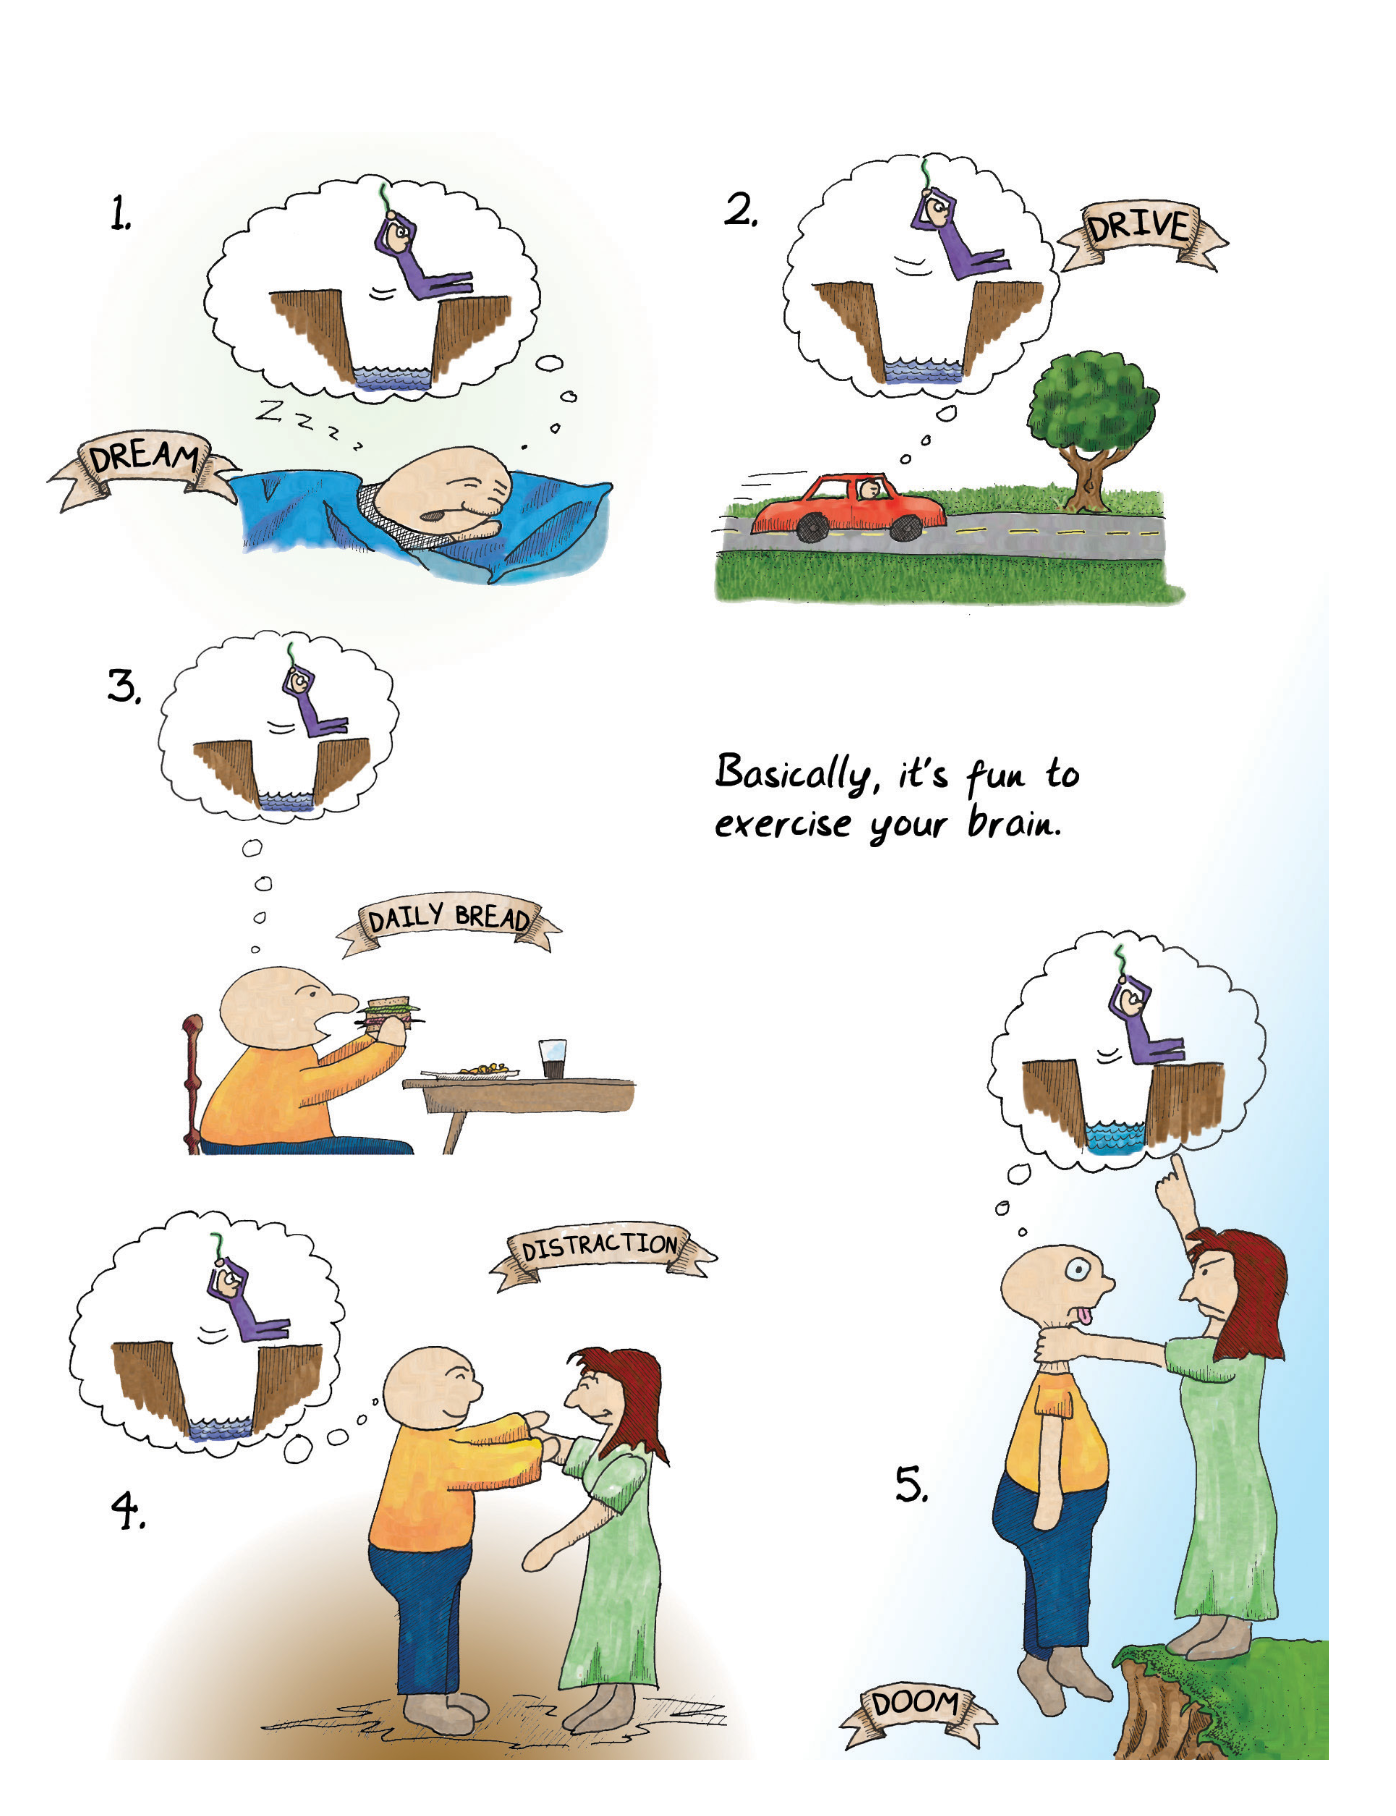
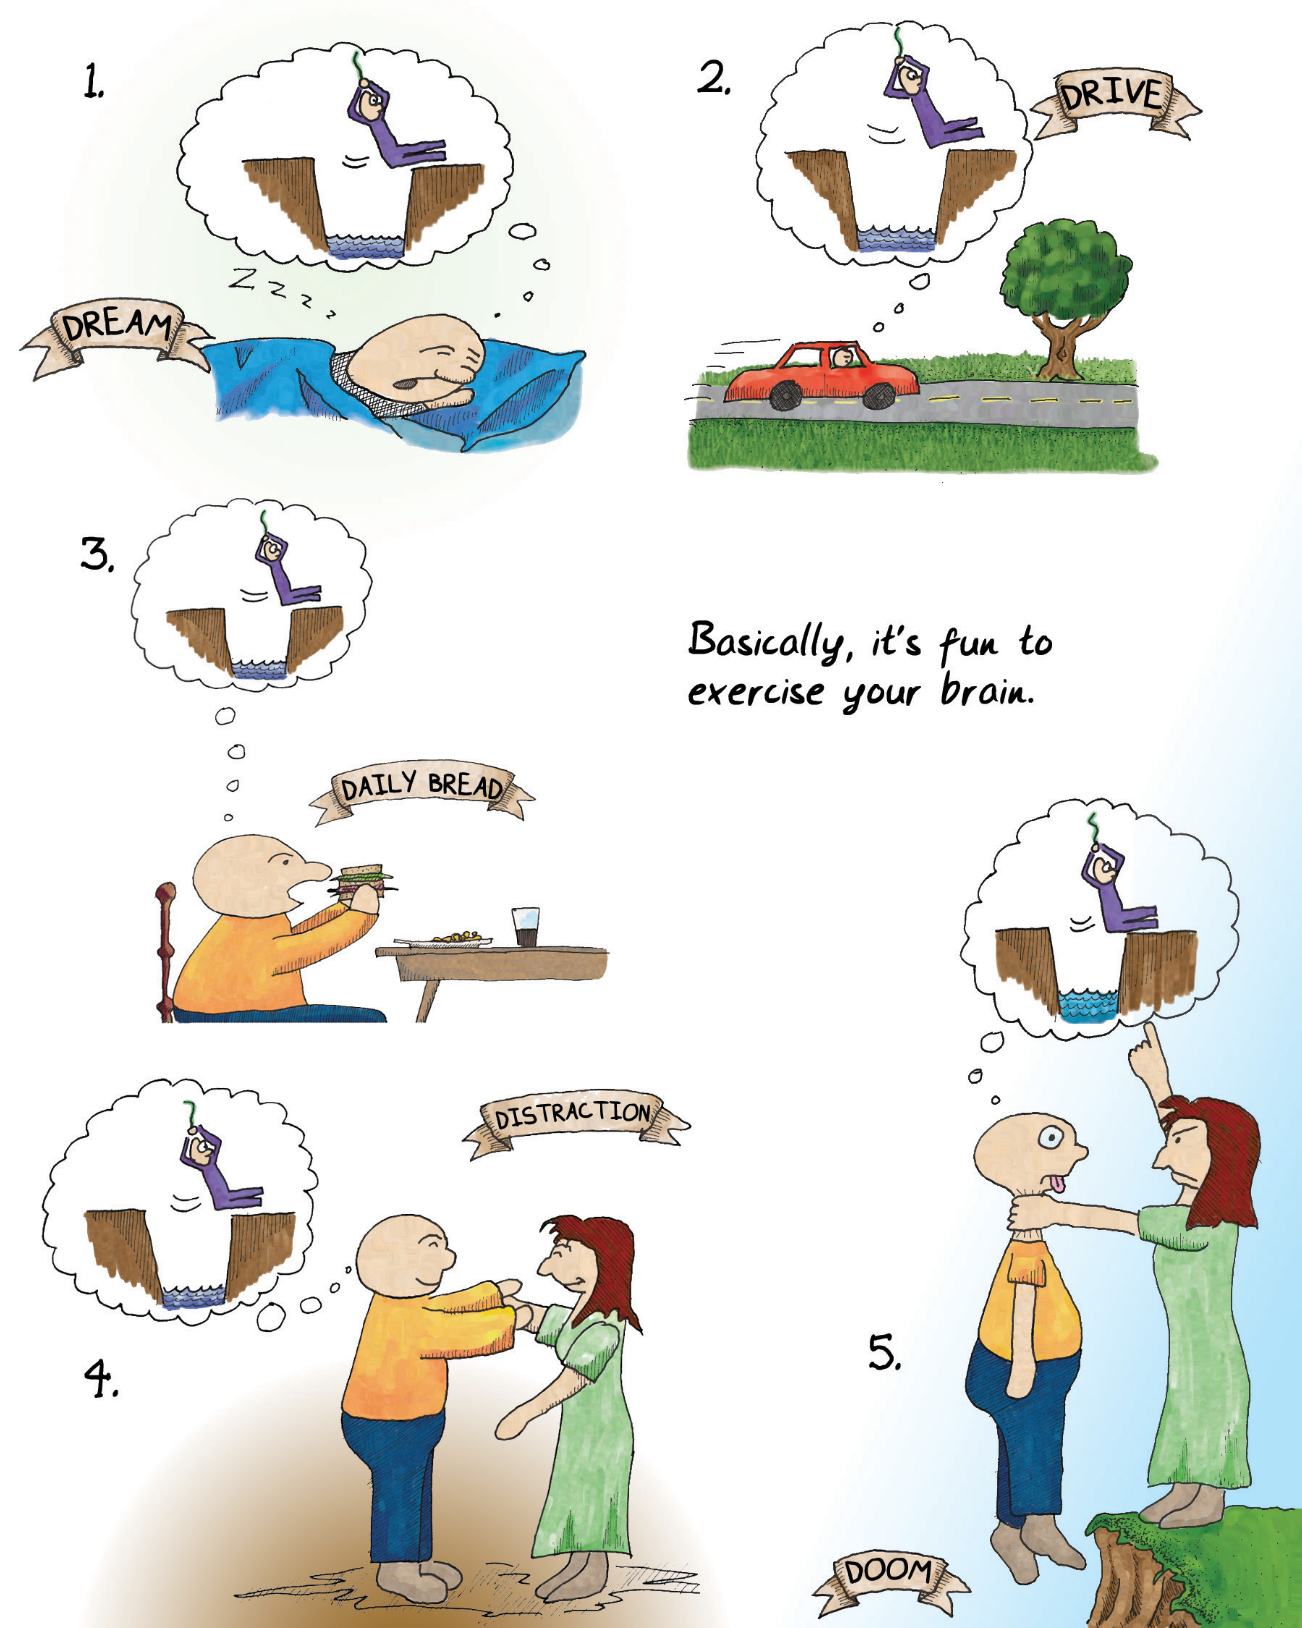
Update.
Update.

diff --git a/chapter-3.md b/chapter-3.md
@@ -17,7 +17,15 @@ The pattern depicted may or may not exist in reality. Nobody is claiming that ti
 
 The world is full of systems that we can choose to approach as games, and by approaching them that way, we make them into games. Games are puzzles to solve, just like everything else we encounter in life. They are on the same order as learning to drive a car, play the mandolin, or multiply seven times seven. We learn the underlying patterns, grok them fully, and file them away so that they can be rerun as needed. The only real difference between games and reality is that the stakes are lower with games.
 
-这个世界充满了各种系统，我们可以选择把它们当作游戏来处理，通过这样的处理方式，我们把它们变成了游戏。游戏是需要解决的谜题，就像我们在生活中遇到的其他事情一样。它们与学习驾驶汽车、弹曼陀林或计算 7 乘以 7 的顺序相同。我们学习其基本模式，完全领悟它们，并将它们归档，以便在需要时重新运行。游戏与现实的唯一真正区别在于，游戏的风险较低。
+这个世界充满了各种系统，我们可以选择把它们当作游戏来处理，通过这样的处理方式，我们把它们变成了游戏。游戏是待解决的谜题，就像我们在生活中遇到的其他事情一样。它们与学习驾驶汽车、弹曼陀林或计算 7 乘以 7 的顺序相同。我们学习其基本模式，完全领悟它们，并将它们归档，以便在需要时重新运行。游戏与现实的唯一真正区别在于，游戏的风险较低。
+
+<div align="center">
+<img src="images/3.1.png" alt="">
+</div>
+
+> Games are puzzles.
+> 
+> 游戏是谜题。
 
 Games are something special and unique. They are concentrated chunks ready for our brains to chew on. Since they are abstracted and iconic, they are readily absorbed. Since they are formal systems, they exclude distracting extra details. Usually, our brains have to do hard work to turn messy reality into something as clear as a game is.
 
@@ -31,14 +39,68 @@ The distinctions between toys and games, or between play and sport, start to see
 
 从这个角度看，玩具与游戏之间，或玩耍与体育之间的区别开始显得有些吹毛求疵和无关紧要。人们对此有很多争论，比如玩耍是非目标导向的，而游戏往往有明确的目标；玩具旨在促进无目的的玩耍，而非成为游戏的一部分；假装是一种玩耍形式，而非游戏。
 
-A game designer might find those distinctions useful because they provide helpful guideposts. But all these things are the same at their most fundamental level. Perhaps this is the reason why language hasn't done a very good job of making distinctions between "play,” "game,” and "sport.” Playing a goal-oriented game involves simply recognizing a particular sort of pattern; playing make-believe is recognizing another one. Both deservedly belong in the same category of "iconified representations of human experience that we can practice with and learn patterns from.”
+A game designer might find those distinctions useful because they provide helpful guideposts. But all these things are the same at their most fundamental level. Perhaps this is the reason why language hasn't done a very good job of making distinctions between "play," "game," and "sport." Playing a goal-oriented game involves simply recognizing a particular sort of pattern; playing make-believe is recognizing another one. Both deservedly belong in the same category of "iconified representations of human experience that we can practice with and learn patterns from."
 
 游戏设计师可能会觉得这些区别很有用，因为它们提供了有益的指导。但所有这些东西在最根本的层面上都是一样的。也许这就是为什么语言没有很好地区分“玩耍”、“游戏”和“运动”的原因。玩一种以目标为导向的游戏，只涉及识别一种特定的模式；而玩“假装”游戏则是识别另一种模式。两者当之无愧地属于同一类“人类经验的图标化表征，我们可以从中练习和学习模式”。
 
-Consider the key difference between something like a book and different kinds of games. A book can do the logical conscious part of the brain pretty well. And really good readers have an ability to slurp that info directly into the subconscious, intuitive mind. But what a book will never be able to do is accelerate the grokking process to the degree that games do, because you cannot practice a pattern and run permutations on it with a book, and have the book respond with feedback. *
+Consider the key difference between something like a book and different kinds of games. A book can do the logical conscious part of the brain pretty well. And really good readers have an ability to slurp that info directly into the subconscious, intuitive mind. But what a book will never be able to do is accelerate the grokking process to the degree that games do, because you cannot practice a pattern and [run permutations on it with a book](#user-content-fn-3)[^3], and have the book respond with feedback.
 
-考虑一下像书这样的东西与不同种类的游戏之间的主要区别。一本书可以很好地完成大脑的逻辑意识部分。而真正优秀的读者有能力将这些信息直接输入潜意识、直觉思维。但书永远无法做到的是，像游戏那样加速摸索过程，因为你无法用一本书来练习一个模式并对其进行排列组合，然后让书做出反馈。*
+考虑一下像书这样的东西与不同种类的游戏之间的主要区别。一本书可以很好地完成大脑的逻辑意识部分。而真正优秀的读者有能力将这些信息直接吸收到潜意识、直觉思维中。但书永远无法做到的是，像游戏那样加速理解过程，因为你无法[用一本书来实践某种模式和运行模式的各种变化组合](#user-content-fn-4)[^4]，然后让书做出反馈。
+
+<div align="center">
+<img src="images/3.2.png" alt="">
+</div>
+
+> cog.ni.tion
+> 
+> n. 1. The mental process of knowing.
+> 
+> 名词 1. 认识的心理过程。
+> 
+> [from Latin cognitio]
+> 
+> [源于拉丁语 cognitio，意思是认识，了解]
+> 
+> -- they are about cognition, and learning to analyze patterns.
+> 
+> -- 它们是关于认知和学习分析模式的。
+
+Linguists have noticed that language obeys fairly strict mathematical rules. For example, humans cannot understand a sentence that is too [deeply nested](#user-content-fn-5)[^5]. "The house the cheese the rat the cat the dog chased caught ate lay in was built by Jack" is a bad sentence because it violates this rule. The clauses are too deeply nested. We can puzzle it out with our slow logical conscious brain, but we work against our own natures when we do so.
+
+语言学家注意到，语言遵守相当严格的数学规则。例如，人类无法理解[嵌套太深](#user-content-fn-6)[^6]的句子。“放有被老鼠吃掉、老鼠又被猫抓、猫又被狗追的奶酪的房子是杰克造的。”就是一个糟糕的句子，因为它违反了这一规则。分句嵌套太深。我们可以用逻辑思维迟钝的大脑来解题，但这样做违背了我们的本性。
+
+Games run into similar limitations. The biggest of these lies in games' very nature as exercises for our brains. Games that fail to exercise the brain become boring. This is why tic-tac-toe ends up falling down—it's exercise, but so limited we don't need to spend much time on it. As we learn more patterns, more novelty is needed to make a game attractive. Practicing can keep a game fresh for a while, but in many cases we'll say, "Eh, I get it, I don't need to practice this task," and we'll move on.
+
+游戏也有类似的局限性。其中最大的限制在于游戏作为大脑运动的本质。无法锻炼大脑的游戏会变得枯燥乏味。这就是为什么井字游戏最终会失败的原因——它是一种锻炼，但却非常有限，我们不需要花太多时间在上面。当我们学会更多的游戏模式时，就需要更多的新颖性来吸引我们。练习可以让游戏保持一段时间的新鲜感，但在很多情况下，我们会说：“诶，我懂了，我不需要练习这个任务了”，然后我们就会继续前进。
+
+Almost all intentionally designed games fall prey to this. They are limited formal systems. If you keep playing them, you'll eventually grok wide swaths of their possibility space. In that sense, games are disposable, and boredom is inevitable.
+
+几乎所有有意设计的游戏都会犯这个错误。它们是有限的正式系统。如果你一直玩下去，你最终会摸索出它们的大片可能性空间。从这个意义上说，游戏是一次性的，无聊是不可避免的。
+
+Fun comes from ["richly interpretable" situations](#user-content-fn-7)[^7]. Games that rigidly define rules and situations are more susceptible to mathematical analysis, which is a limitation in itself. We don't think that we can drive just because we know the rules of the road and the controls of a car, but extremely formal games (such as most board games) have fairly few variables, and so you can often extrapolate out everything about how the game will go from the known rule set. This is an important insight for game designers: _[the more rigidly constructed your game is, the more limited it will be.](#user-content-fn-9)[^9]_  To make games more long-lasting, they need to integrate either math problems we don't know the solutions to, or more variables (and less predictable ones) such as human psychology, physics, and so on. These are elements that arise from outside the game's rules and from outside the "magic circle."
+
+乐趣来自于[“丰富的可解释性”](#user-content-fn-8)[^8]。严格定义规则和情境的游戏更容易受到数学分析的影响，这本身就是一种限制。我们不会因为知道了道路规则和汽车的控制方法就认为自己会开车，但极其正式的游戏（如大多数棋盘游戏）变量相当少，因此你往往可以从已知的规则中推断出游戏的一切走向。这对游戏设计者来说是一个重要的启示：_[你的游戏构造得越死板，它的局限性就越大。](#user-content-fn-10)[^10]_ 要想让游戏更持久，就需要融入我们不知道解法的数学问题，或者更多的变量（而且是不那么容易预测的变量），比如人类心理学、物理学等等。这些元素来自游戏规则之外，也来自“魔法阵”之外。
+
+(If it's any consolation to games, that's where game theory tends to fall down too—psych tends not to be that amenable to math.)
+
+(如果说这对游戏有什么安慰的话，那就是博弈论往往也会失败的地方——心理学往往不那么适合数学）。
 
 [^1]: Our perception of reality is basically abstraction: An important paper called "What the Frog's Eye Tells the Frog's Brain," by Lettvin, Maturana, McCulloch, and Pitts, described the fact that what the brain "sees" as output from the eyes is not even vaguely close to the literal visual image. A significant amount of processing turns the literal input of light and shadow into something that the brain copes with. In a very real sense, we do not see the world—we see what our brain tells us we see. Solipsism is five blocks down and to the left.
 
 [^2]: 我们对现实的感知基本上是抽象的：莱特文、马图拉纳、麦克库洛赫和皮茨的一篇重要论文《青蛙的眼睛告诉青蛙的大脑什么》描述了这样一个事实：大脑从眼睛中“看到”的输出与字面上的视觉图像相差甚远。大量的处理过程将光影的直接输入转化为大脑可以应对的东西。从真正意义上说，我们看到的不是世界，而是大脑告诉我们看到了什么。唯我论就在左下方五个街区的地方。
+
+[^3]: Run permutations on a book: This statement is a bit too forceful. There exist works of literature that are intended in this manner. Examples include the entire genre of hypertext fiction (Victory Garden by Stuart Moulthrop is a good starting point). There are also books such as Julio Cortázar's Rayuela (translated as Hopscotch) that are intended to be read in multiple different orders. And of course, the genre of games known as "interactive fiction," or text adventures, can be seen as a computer-assisted form of this type of book.
+
+[^4]: 用一本书进行排列组合：这种说法有点过于武断。有一些文学作品就是以这种方式创作的。例如整个超文本小说流派（斯图而特·莫而特洛普的《胜利花园》就是一个很好的起点）。还有像胡里奥·科塔萨尔的《Rayuela》（译为《跳房子》）这样可以按照多种不同顺序阅读的书籍。当然，被称为“互动小说”或文字冒险的游戏类型也可以被视为这类书籍的计算机辅助形式。
+
+[^5]: Deeply nested clauses: This is typically seen as an expression of G. A. Miller’s number cited in the endnote on "chunking" in Chapter Two: 7±2. In assessing a deeply nested sentence, it’s important to realize that each word is itself already being "chunked" from a collection of letters. The example sentence comes from Jane Robinson’s 1974 paper ["Performance Grammars"](http://www.sri.com/sites/default/files/uploads/publications/pdf/1384.pdf).
+
+[^6]: 深嵌套从句：这通常被视为第二章“分块”尾注中引用的G. A.米勒的数字：7±2。在评估一个深嵌套句子时，重要的是要意识到每个单词本身已经是从字母集合中“分块”出来的。例句来自简·罗宾逊 1974 年的论文[《表现语法》](http://www.sri.com/sites/default/files/uploads/publications/pdf/1384.pdf)。
+
+[^7]: Richly interpretable situations: This is not only my interpretation of the sorts of game patterns that humans find compelling, but also the phrase used by Biederman & Vessel in their research on endorphins and pleasurable feedback from the brain. For a discussion of the applicability of this to games, see Craig Perko’s blog at [http://blog.ihobo.com/2012/05/implicit-game-aesthetics-4-cooks-chemistry.html](http://blog.ihobo.com/2012/05/implicit-game-aesthetics-4-cooks-chemistry.html).
+
+[^8]: 丰富的可解释情境：这不仅是我对人类认为引人入胜的游戏模式的理解，也是比德曼和韦塞尔在研究大脑内啡肽和愉悦反馈时使用的短语。关于这句话在游戏中的适用性，请参阅克雷格·佩尔科的博客：[http://blog.ihobo.com/2012/05/implicit-game-aesthetics-4-cooks-chemistry.html](http://blog.ihobo.com/2012/05/implicit-game-aesthetics-4-cooks-chemistry.html)。
+
+[^9]: The limitations of rules: This is a game-specific way of explaining Gödel’s Theorem. Kurt Gödel, in his 1931 paper "On Formally Undecidable Propositions in Principia Mathematica and Related Systems," proved that there are always propositions that lie outside the boundaries of a given formal system. No formal system can describe itself fully. The "magic circle" is basically an attempt to protect the integrity of a model, in the same way that Hilbert’s view of mathematics attempted to fully define a system. The truly long-lived rigidly defined games have tended to be those presenting truly difficult mathematical problems to their players – games that fall into the NP-hard complexity category. For more on this, I refer you to my conference presentation "Games Are Math," given at GDCO in 2009: [http://www.raphkoster.com/2009/09/22/gdca-games-are-math-slides-posted/](http://www.raphkoster.com/2009/09/22/gdca-games-are-math-slides-posted/).
+
+[^10]: 规则的局限性：这是解释哥德尔定理的一种特定游戏方式。库尔特·哥德尔在 1931 年发表的论文《论数学原理及相关体系中形式上不可判定的命题》中证明，总有一些命题处于特定形式系统的边界之外。任何形式系统都无法完全描述自身。“魔法阵”基本上是试图保护模型的完整性，就像希尔伯特的数学观试图完全定义一个系统一样。真正长寿的严格定义的游戏往往是那些给玩家带来真正困难的数学问题的游戏——属于 NP 困难 复杂性类别的游戏。关于这方面的更多信息，请参阅我在 2009 年 GDCO 大会上的演讲《游戏即数学》：[http://www.raphkoster.com/2009/09/22/gdca-games-are-math-slides-posted/](http://www.raphkoster.com/2009/09/22/gdca-games-are-math-slides-posted/)。

diff --git a/chapter-2.md b/chapter-2.md
@@ -65,9 +65,7 @@ When you watch kids learn, you see there's a recognizable pattern to what they d
 当你观察孩子们学习时，你会发现他们的行为有一个可识别的模式。他们尝试一次——看起来孩子们不能仅仅通过被教导来学习。他们必须自己犯错误。他们挑战极限，测试极限，看看极限能弯曲到什么程度。他们一遍又一遍又一遍又一遍又一遍地观看同一个视频……
 
 <div align="center">
-
 <img src="images/2.2.png" alt="">
-
 </div>
 
 > Look at the places we can find a face.
@@ -333,6 +331,25 @@ Building up this library is what we call "[practice](#user-content-fn-55)[^55]."
 When our brain is really into practicing something, we'll dream about it. This is the intuitive part of the brain burning neural pathways into our brain, working on turning newly grasped patterns into something that fits within the context of everything else we know. The ultimate goal is to turn it into a routine. Frankly, my impression is that the brain doesn't particularly want to have to deal with it again.
 
 当我们的大脑真正投入到练习某件事时，我们会梦见它。这是大脑的直觉部分在我们的大脑中燃烧神经通路，努力将新掌握的模式转变为能融入我们已知的一切知识体系的东西。最终目标是将它变成一种常规。坦白说，我的感觉是，大脑并不特别想再次处理这个事。
+
+<div align="center">
+<img src="images/2.11.png" alt="">
+</div>
+
+> Dream
+> 做梦
+> 
+> Drive
+> 开车
+> 
+> Daily Bread
+> 吃饭
+> 
+> Distraction
+> 消遣
+> 
+> Doom
+> 毁灭
 
 [^1]: Game theory: A field of mathematics that studies decision making in formal models. Most games can be interpreted as formal models, but game theory (like economics) tends to run afoul of real-world data when the mathematical hypotheses are tested, largely because game theory is based on optimal strategies. Most people aren't optimal all the time. Game theory doesn't always help you design a better game, but it can help explain why people make certain choices in a game.
 
